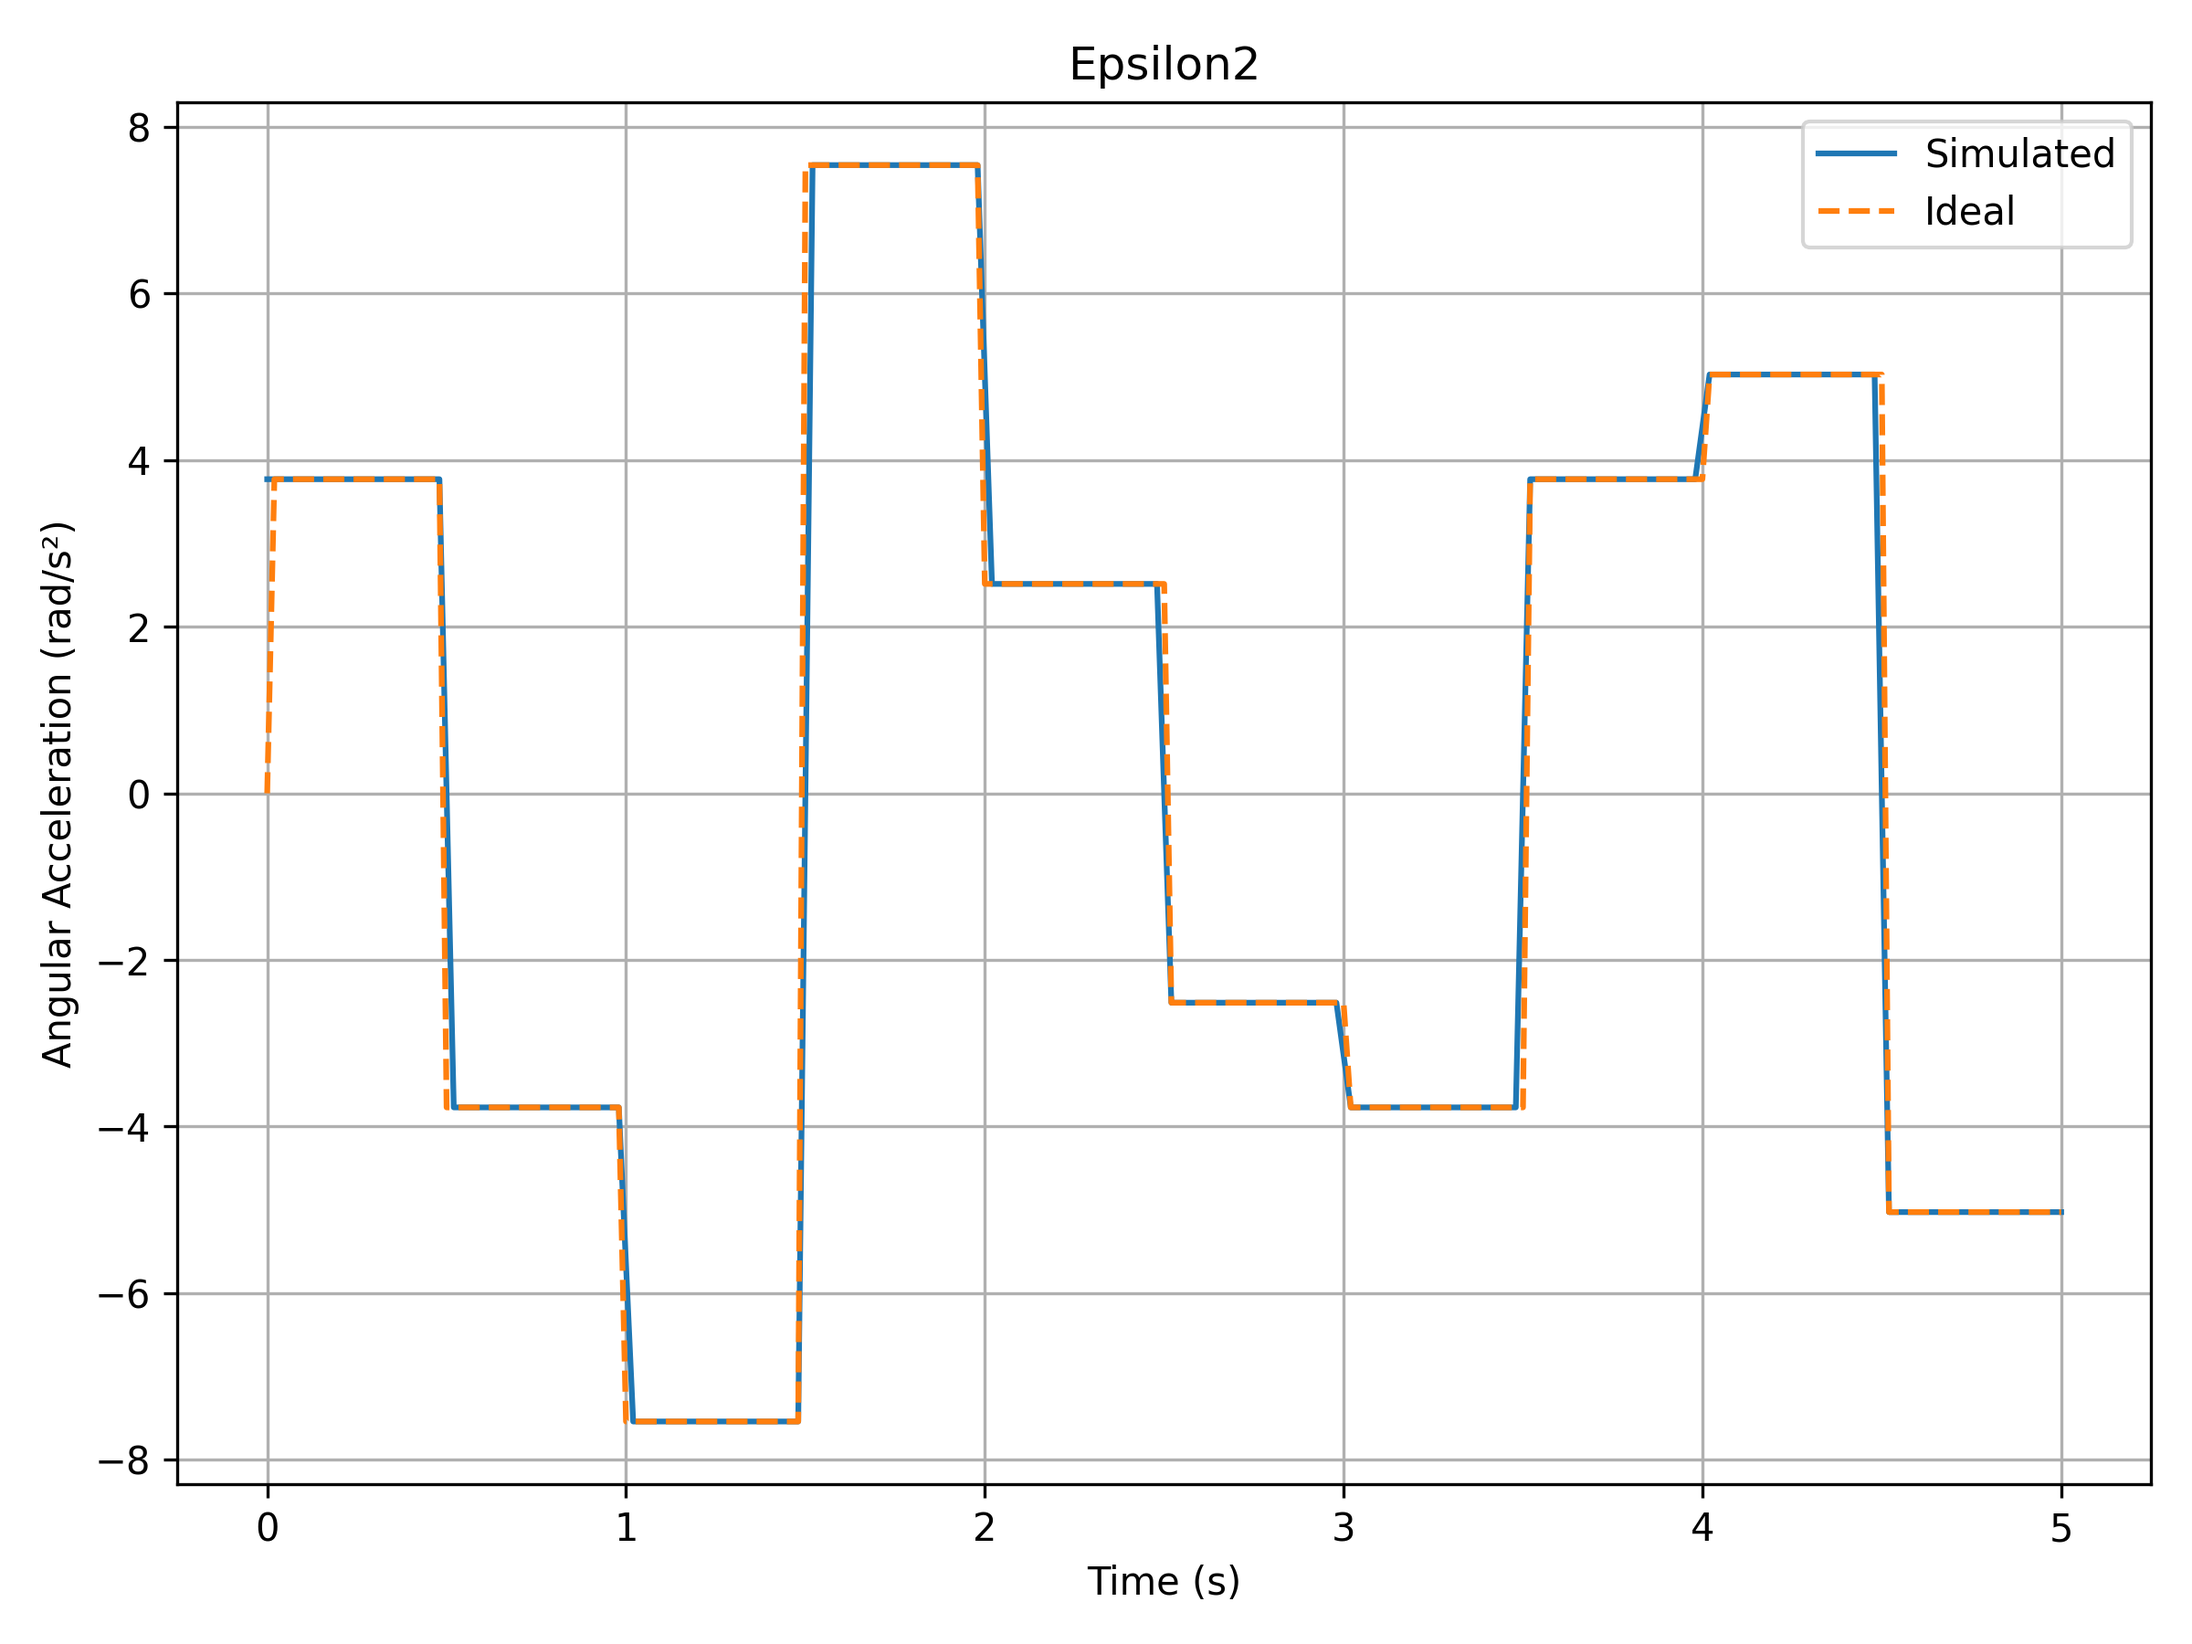
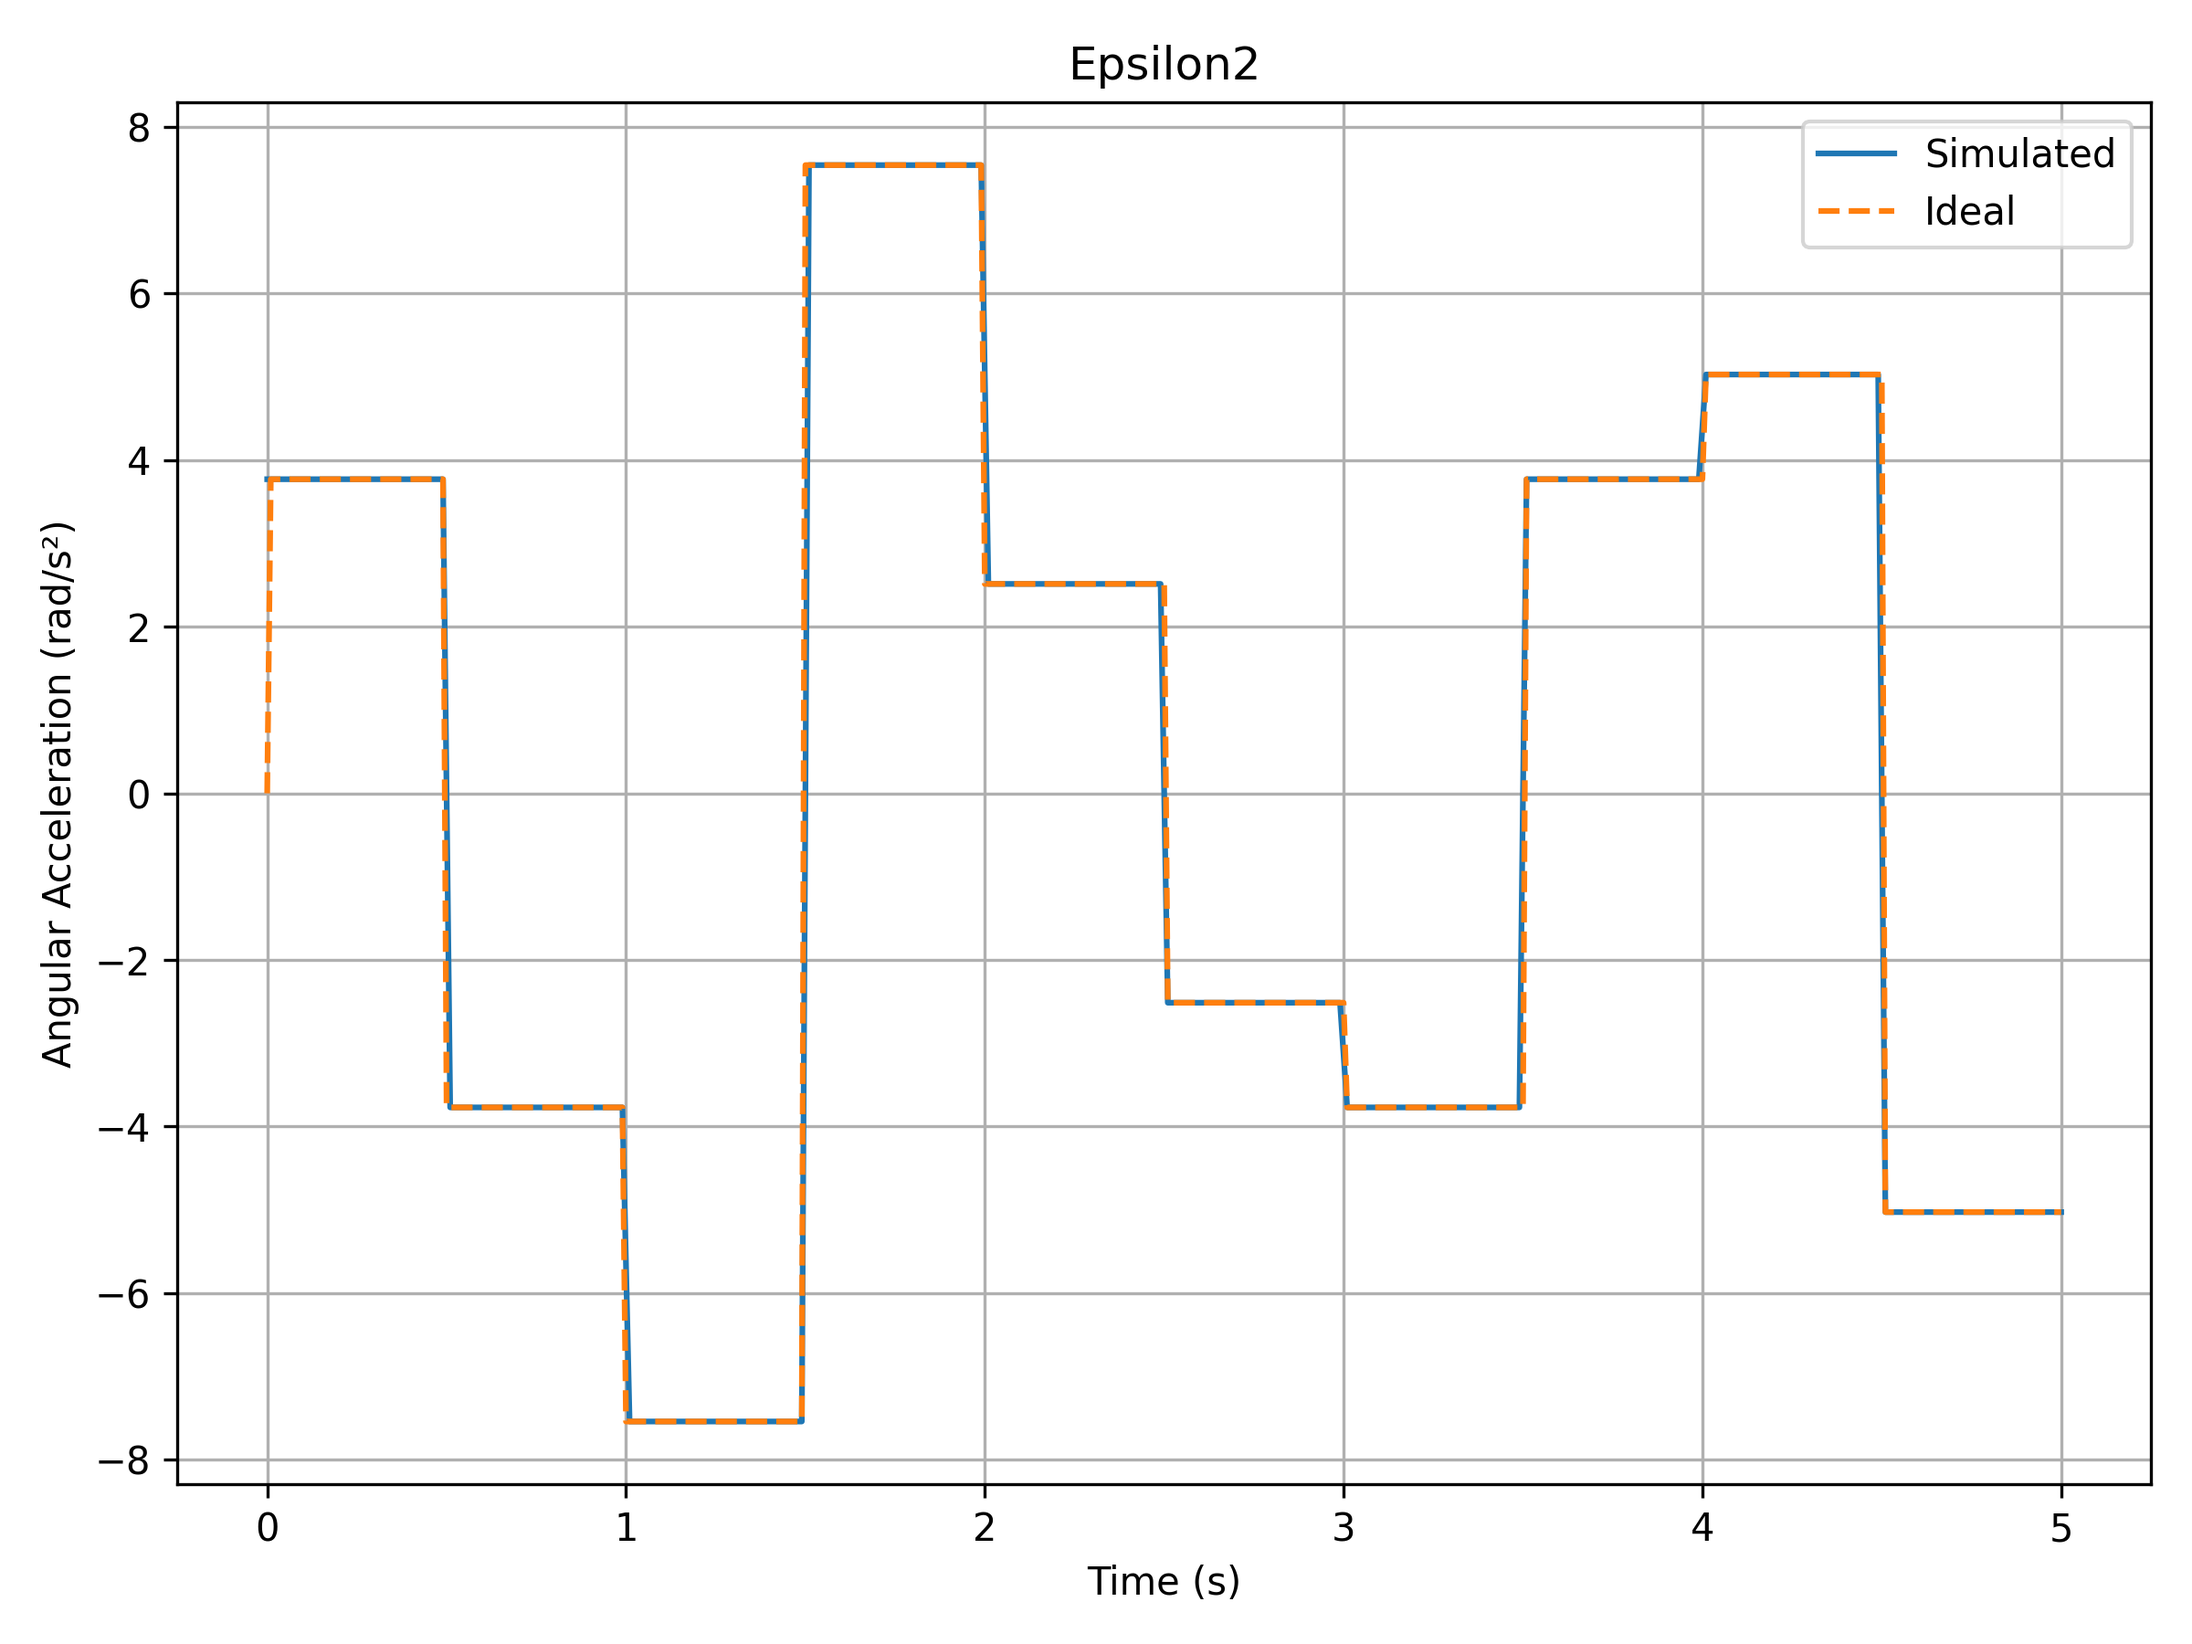
Some minor changes and better plotting for article

diff --git a/robotics realisation/roboticsForward.py b/robotics realisation/roboticsForward.py
@@ -78,7 +78,6 @@ robot.AddLink(RobotLink(
     visualization=visualisationLink3,
     PDcontrol=(0, 0)  # No PD control for last link
 ))
-
 # ========================================
 # SYSTEM SETUP
 # ========================================
@@ -120,14 +119,6 @@ robotTrajectory.Add(ProfileConstantAcceleration(q2, 1))
 robotTrajectory.Add(ProfileConstantAcceleration(q3, 1))
 robotTrajectory.Add(ProfileConstantAcceleration(q4, 1))
 robotTrajectory.Add(ProfileConstantAcceleration(q5, 1))
-
-# ========================================
-# SENSORS
-# ========================================
-output_dir = "sensor_outputs"
-if not os.path.exists(output_dir):
-    os.makedirs(output_dir)
-
 # ==========================================
 # PRE-STEP USER FUNCTION FOR DYNAMIC CONTROL
 # ==========================================
@@ -136,24 +127,26 @@ def PreStepUF(mbs, t):
     if useKT:
         # Getting trajectory parameters
         [u,v,a] = robotTrajectory.Evaluate(t)
-
         # Calculating torques according to tau = M * ddq
         HT = robot.JointHT(u)
         jointJacs = JointJacobian(robot, HT, HT)
         MM = MassMatrix(robot, HT, jointJacs)
         dynamical = MM.dot(a)
         torque_values.append(dynamical)
-
         # Setting system parameters
         mbs.SetObjectParameter(oKT, 'jointPositionOffsetVector', u)
         mbs.SetObjectParameter(oKT, 'jointVelocityOffsetVector', v)
         mbs.SetObjectParameter(oKT, 'jointForceVector', dynamical)
-
     return True
 
 mbs.SetPreStepUserFunction(PreStepUF)
 
-# Motion sensors
+# ========================================
+# SENSORS
+# ========================================
+output_dir = "sensor_outputs"
+if not os.path.exists(output_dir):
+    os.makedirs(output_dir)
 verticalDispSens = mbs.AddSensor(SensorKinematicTree(
     objectNumber=oKT,
     linkNumber=0,
@@ -164,7 +157,6 @@ verticalDispSens = mbs.AddSensor(SensorKinematicTree(
     fileName=os.path.join(output_dir, "verticalDisp.txt"),
     name="verticalDisp"
 ))
-
 verticalVelSens = mbs.AddSensor(SensorKinematicTree(
     objectNumber=oKT,
     linkNumber=0,
@@ -175,18 +167,6 @@ verticalVelSens = mbs.AddSensor(SensorKinematicTree(
     fileName=os.path.join(output_dir, "verticalVel.txt"),
     name="verticalVel"
 ))
-
-verticalAccSens = mbs.AddSensor(SensorKinematicTree(
-    objectNumber=oKT,
-    linkNumber=0,
-    localPosition=[0, 0, 0],
-    outputVariableType=exu.OutputVariableType.AccelerationLocal,
-    storeInternal=True,
-    writeToFile=True,
-    fileName=os.path.join(output_dir, "verticalAcc.txt"),
-    name="verticalAcc"
-))
-
 # Joint 1 sensors (Rz)
 theta1Sensor = mbs.AddSensor(SensorKinematicTree(
     objectNumber=oKT,
@@ -198,7 +178,6 @@ theta1Sensor = mbs.AddSensor(SensorKinematicTree(
     fileName=os.path.join(output_dir, "theta1_deg.txt"),
     name="theta1_deg"
 ))
-
 omega1Sensor = mbs.AddSensor(SensorKinematicTree(
     objectNumber=oKT,
     linkNumber=1,
@@ -209,18 +188,6 @@ omega1Sensor = mbs.AddSensor(SensorKinematicTree(
     fileName=os.path.join(output_dir, "omega1_deg.txt"),
     name="omega1_deg"
 ))
-
-epsilon1Sensor = mbs.AddSensor(SensorKinematicTree(
-    objectNumber=oKT,
-    linkNumber=1,
-    localPosition=[0, 0, 0],
-    outputVariableType=exu.OutputVariableType.AngularAccelerationLocal,
-    storeInternal=True,
-    writeToFile=True,
-    fileName=os.path.join(output_dir, "epsilon1_deg.txt"),
-    name="epsilon1_deg"
-))
-
 # Joint 2 sensors (Rz)
 theta2Sensor = mbs.AddSensor(SensorKinematicTree(
     objectNumber=oKT,
@@ -232,7 +199,6 @@ theta2Sensor = mbs.AddSensor(SensorKinematicTree(
     fileName=os.path.join(output_dir, "theta2_deg.txt"),
     name="theta2_deg"
 ))
-
 omega2Sensor = mbs.AddSensor(SensorKinematicTree(
     objectNumber=oKT,
     linkNumber=2,
@@ -243,18 +209,6 @@ omega2Sensor = mbs.AddSensor(SensorKinematicTree(
     fileName=os.path.join(output_dir, "omega2_deg.txt"),
     name="omega2_deg"
 ))
-
-epsilon2Sensor = mbs.AddSensor(SensorKinematicTree(
-    objectNumber=oKT,
-    linkNumber=2,
-    localPosition=[0, 0, 0],
-    outputVariableType=exu.OutputVariableType.AngularAccelerationLocal,
-    storeInternal=True,
-    writeToFile=True,
-    fileName=os.path.join(output_dir, "epsilon2_deg.txt"),
-    name="epsilon2_deg"
-))
-
 # Joint 3 sensors (Rz)
 theta3Sensor = mbs.AddSensor(SensorKinematicTree(
     objectNumber=oKT,
@@ -266,7 +220,6 @@ theta3Sensor = mbs.AddSensor(SensorKinematicTree(
     fileName=os.path.join(output_dir, "theta3_deg.txt"),
     name="theta3_deg"
 ))
-
 omega3Sensor = mbs.AddSensor(SensorKinematicTree(
     objectNumber=oKT,
     linkNumber=3,
@@ -278,22 +231,10 @@ omega3Sensor = mbs.AddSensor(SensorKinematicTree(
     name="omega3_deg"
 ))
 
-epsilon3Sensor = mbs.AddSensor(SensorKinematicTree(
-    objectNumber=oKT,
-    linkNumber=3,
-    localPosition=[0, 0, 0],
-    outputVariableType=exu.OutputVariableType.AngularAccelerationLocal,
-    storeInternal=True,
-    writeToFile=True,
-    fileName=os.path.join(output_dir, "epsilon3_deg.txt"),
-    name="epsilon3_deg"
-))
-
 # ========================================
 # SIMULATION SETUP
 # ========================================
 mbs.Assemble()
-
 simulationSettings = exu.SimulationSettings()
 
 # Time integration settings
@@ -336,72 +277,41 @@ mbs.SolveDynamic(
 # ========================================
 # DATA PROCESSING AND PLOTTING (fixed)
 # ========================================
-# Load sensor data (stored arrays: [time, x, y, z] for translational sensors,
-# and [time, wx, wy, wz] or [time, rx, ry, rz] for rotational sensors)
 verticalDisp_data = mbs.GetSensorStoredData(verticalDispSens)
 theta1_data = mbs.GetSensorStoredData(theta1Sensor)
 theta2_data = mbs.GetSensorStoredData(theta2Sensor)
 theta3_data = mbs.GetSensorStoredData(theta3Sensor)
-
 verticalVel_data = mbs.GetSensorStoredData(verticalVelSens)
 omega1_data = mbs.GetSensorStoredData(omega1Sensor)
 omega2_data = mbs.GetSensorStoredData(omega2Sensor)
 omega3_data = mbs.GetSensorStoredData(omega3Sensor)
 
-verticalAcc_data = mbs.GetSensorStoredData(verticalAccSens)
-epsilon1_data = mbs.GetSensorStoredData(epsilon1Sensor)
-epsilon2_data = mbs.GetSensorStoredData(epsilon2Sensor)
-epsilon3_data = mbs.GetSensorStoredData(epsilon3Sensor)
-
-# Time vector (assume all sensors have same time base)
 times = theta1_data[:, 0]
-
-# --- Extract absolute quantities from sensor outputs ---
-# For translational sensors: columns = [time, x, y, z]
-verticalDisp_abs = verticalDisp_data[:, 3]   # z-component (absolute)
+verticalDisp_abs = verticalDisp_data[:, 3]
 verticalVel_abs = verticalVel_data[:, 3]
-verticalAcc_abs = verticalAcc_data[:, 3]
-
-# For rotational sensors: assume columns = [time, rx, ry, rz] or angular velocities/accelerations
-theta1_abs = theta1_data[:, 3]   # absolute orientation around local axis (rad)
+theta1_abs = theta1_data[:, 3]
 theta2_abs = theta2_data[:, 3]
 theta3_abs = theta3_data[:, 3]
-
-omega1_abs = omega1_data[:, 3]   # angular velocity (rad/s)
+omega1_abs = omega1_data[:, 3]
 omega2_abs = omega2_data[:, 3]
 omega3_abs = omega3_data[:, 3]
 
-epsilon1_abs = epsilon1_data[:, 3]  # angular acceleration (rad/s^2)
-epsilon2_abs = epsilon2_data[:, 3]
-epsilon3_abs = epsilon3_data[:, 3]
-
-# --- Compute relative joint values correctly (child - parent) ---
-# Cylinder is link 0 (prismatic) -> its vertical displacement is verticalDisp_abs
-verticalDisp = verticalDisp_abs
-
-# Rotational joints: relative angle = absolute(child) - absolute(parent)
-theta1 = theta1_abs.copy()                      # first revolute joint relative to base (if base rotation is zero)
-theta2 = theta2_abs - theta1_abs                # link2 relative to link1
-theta3 = theta3_abs - theta2_abs                # link3 relative to link2
-
-# Velocities
+theta1 = theta1_abs.copy()
+theta2 = theta2_abs - theta1_abs
+theta3 = theta3_abs - theta2_abs
 verticalVel = verticalVel_abs
 omega1 = omega1_abs.copy()
 omega2 = omega2_abs - omega1_abs
 omega3 = omega3_abs - omega2_abs
-
-# Accelerations
 verticalAcc = np.gradient(verticalVel, times)
 epsilon1 = np.gradient(omega1, times)
 epsilon2 = np.gradient(omega2, times)
 epsilon3 = np.gradient(omega3, times)
 
-# --- Generate ideal trajectory data (unchanged) ---
 n = len(times)
 ideal_positions = np.zeros((n, 4))
 ideal_velocities = np.zeros((n, 4))
 ideal_accelerations = np.zeros((n, 4))
-
 for i, t in enumerate(times):
     u, v, a = robotTrajectory.Evaluate(t)
     ideal_positions[i] = u
@@ -443,31 +353,7 @@ def plot_all_results(times,
         plt.savefig(os.path.join(output_dir, filename), dpi=300)
         plt.close()
 
-    step = 2
-
-    # Positions
-    save_plot(times, [verticalDisp, ideal_vertical_position],
-              ["Simulated", "Ideal"], "Vertical Position", "Position (m)",
-              "vertical_position.png", linestyles=['-', '--'])
-    save_plot(times, [theta1, ideal_positions[:, 1]],
-              ["Simulated", "Ideal"], "Theta1", "Angle (rad)",
-              "theta1.png", linestyles=['-', '--'])
-    save_plot(times, [theta2, ideal_positions[:, 2]],
-              ["Simulated", "Ideal"], "Theta2", "Angle (rad)",
-              "theta2.png", linestyles=['-', '--'])
-    save_plot(times, [theta3], ["Simulated"], "Theta3", "Angle (rad)",
-              "theta3.png", linestyles=['-'])
-
-    # Position error plots
-    save_plot(times, [ideal_vertical_position - verticalDisp],
-              ["Error"], "Vertical Position Error", "Error (m)",
-              "err_vertical_position.png")
-    save_plot(times, [ideal_positions[:, 1] - theta1],
-              ["Error"], "Theta1 Error", "Error (rad)",
-              "err_theta1.png")
-    save_plot(times, [ideal_positions[:, 2] - theta2],
-              ["Error"], "Theta2 Error", "Error (rad)",
-              "err_theta2.png")
+    step = 1
 
     # Velocities
     save_plot(times, [verticalVel, ideal_velocities[:, 0]],
@@ -526,7 +412,7 @@ def plot_all_results(times,
 
 plot_all_results(
     times,
-    verticalDisp, ideal_vertical_position,
+    verticalDisp_abs, ideal_vertical_position,
     theta1, theta2, theta3, ideal_positions,
     verticalVel, omega1, omega2, omega3, ideal_velocities,
     verticalAcc, epsilon1, epsilon2, epsilon3, ideal_accelerations,
@@ -615,3 +501,45 @@ plot_accelerations_scatter(
     ideal_eps1, ideal_eps2, ideal_eps3,
     output_dir="plots"
 )
+
+plt.rcParams['font.family'] = 'Times New Roman'
+plt.rcParams['font.size'] = 16
+
+plt.figure(dpi=120)
+plt.subplots_adjust(wspace=0.1, hspace=0.1)
+
+plt.subplot(2, 2, 1)
+plt.plot(times, theta1, label='Simulated θ1', linewidth=2.5)
+plt.plot(times, ideal_positions[:, 1], '--', label='Ideal θ1', linewidth=2.5)
+plt.title('Link 1 position vs Ideal', fontsize=16)
+plt.xlabel('Time (s)', fontsize=14)
+plt.ylabel('Angle (rad)', fontsize=14)
+plt.legend(fontsize=10)
+plt.grid(True)
+
+plt.subplot(2, 2, 2)
+plt.plot(times, theta2, label='Simulated θ2', linewidth=2.5)
+plt.plot(times, ideal_positions[:, 2], '--', label='Ideal θ2', linewidth=2.5)
+plt.plot(times, theta3, label='Simulated θ3', linewidth=2.5)
+plt.title('Link 2 and 3 positions vs Ideal', fontsize=16)
+plt.xlabel('Time (s)', fontsize=14)
+plt.ylabel('Angle (rad)', fontsize=14)
+plt.legend(fontsize=10)
+plt.grid(True)
+
+plt.subplot(2, 2, 3)
+plt.plot(times, ideal_positions[:, 1] - theta1, linewidth=2.5)
+plt.title('Position errors for link 1', fontsize=16)
+plt.xlabel('Time (s)', fontsize=14)
+plt.ylabel('Error (rad)', fontsize=14)
+plt.grid(True)
+
+plt.subplot(2, 2, 4)
+plt.plot(times, ideal_positions[:, 2] - theta2, linewidth=2.5)
+plt.title('Position errors for link 2', fontsize=16)
+plt.xlabel('Time (s)', fontsize=14)
+plt.ylabel('Error (rad)', fontsize=14)
+plt.grid(True)
+
+plt.tight_layout()
+plt.show()
